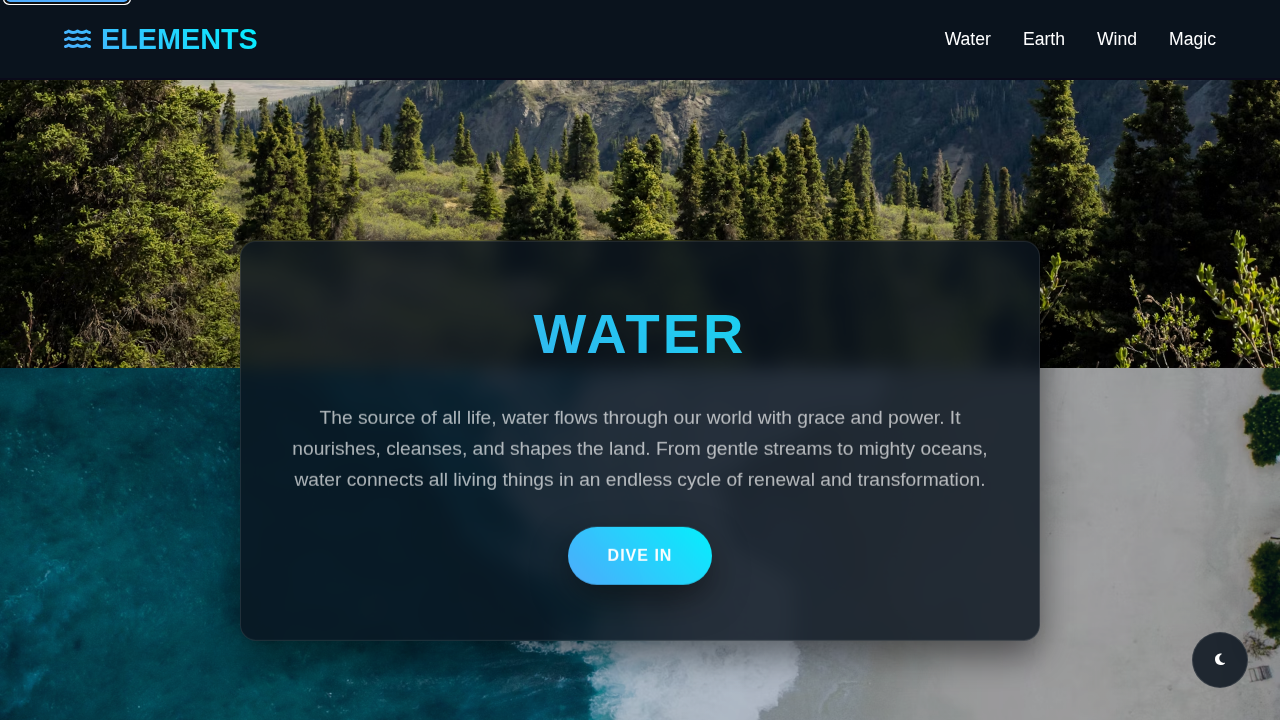
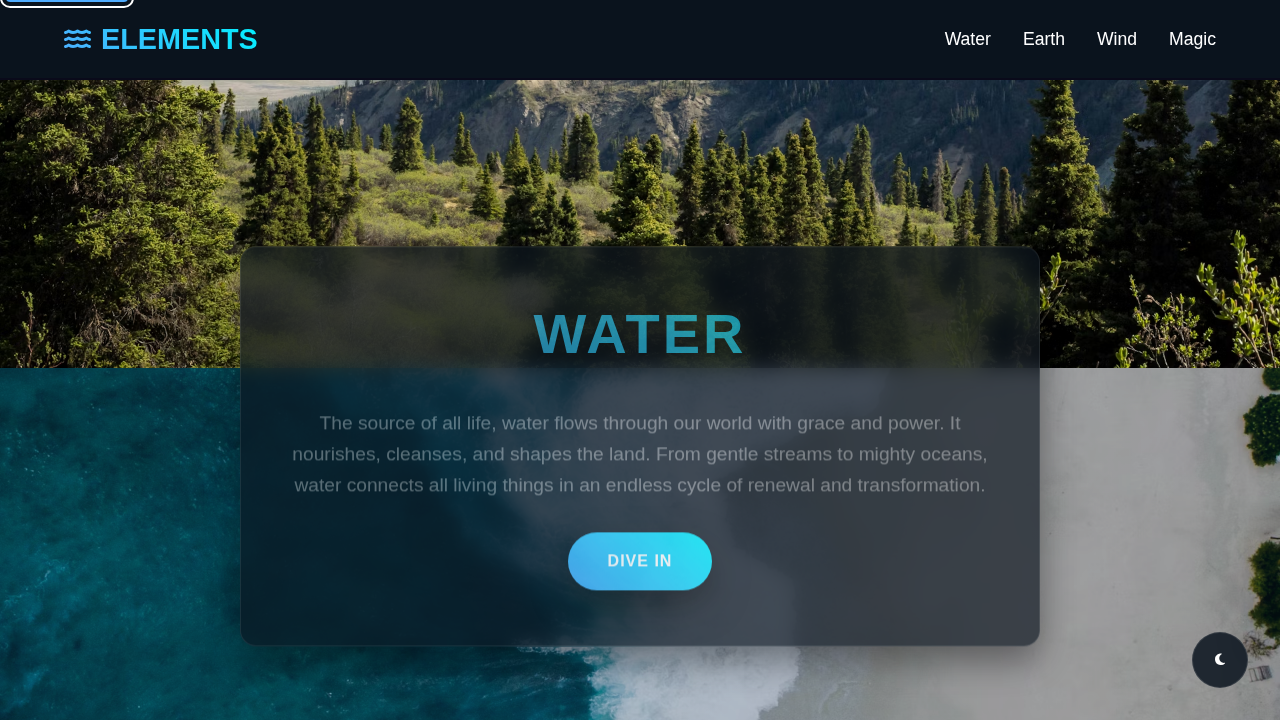
🎨 Palette: Improve keyboard focus visibility and mobile menu accessibility

diff --git a/index.html b/index.html
@@ -60,6 +60,11 @@
             top: 6px;
         }
 
+        .skip-link:focus-visible {
+            outline: 2px solid var(--text-color);
+            outline-offset: 4px;
+        }
+
         #main-content:focus {
             outline: none;
         }
@@ -98,6 +103,12 @@
             display: flex;
             align-items: center;
             gap: 10px;
+            border-radius: 4px;
+        }
+
+        .logo:focus-visible {
+            outline: 2px solid var(--primary-color);
+            outline-offset: 4px;
         }
 
         .logo i {
@@ -120,8 +131,14 @@
         }
 
         .nav-links a:hover,
-        .nav-links a:focus {
+        .nav-links a:focus-visible {
             color: var(--primary-color);
+        }
+
+        .nav-links a:focus-visible {
+            outline: 2px solid var(--primary-color);
+            outline-offset: 4px;
+            border-radius: 4px;
         }
 
         .nav-links a::after {
@@ -136,7 +153,7 @@
         }
 
         .nav-links a:hover::after,
-        .nav-links a:focus::after {
+        .nav-links a:focus-visible::after {
             width: 100%;
         }
 
@@ -154,11 +171,6 @@
         .mobile-menu-btn:focus-visible {
             outline: 2px solid var(--primary-color);
             outline-offset: 4px;
-        }
-
-        .mobile-menu-btn:focus-visible {
-            outline: 2px solid var(--primary-color);
-            outline-offset: 2px;
             border-radius: 4px;
         }
 
@@ -231,11 +243,14 @@
         }
 
         .btn:hover,
-        .btn:focus {
+        .btn:focus-visible {
             transform: translateY(-5px);
             box-shadow: 0 20px 30px rgba(0, 0, 0, 0.4);
+        }
+
+        .btn:focus-visible {
             outline: 2px solid var(--primary-color);
-            outline-offset: 2px;
+            outline-offset: 4px;
         }
 
         .btn::before {
@@ -408,11 +423,14 @@
         }
 
         .social-icons a:hover,
-        .social-icons a:focus {
+        .social-icons a:focus-visible {
             transform: translateY(-5px) scale(1.1);
             box-shadow: 0 10px 20px rgba(0, 0, 0, 0.3);
+        }
+
+        .social-icons a:focus-visible {
             outline: 2px solid var(--primary-color);
-            outline-offset: 2px;
+            outline-offset: 4px;
         }
 
         .copyright {
@@ -548,7 +566,7 @@
                 ELEMENTS
             </a>
 
-            <button class="mobile-menu-btn" id="mobile-menu-btn" aria-label="Toggle navigation menu" title="Toggle navigation menu" aria-expanded="false">
+            <button class="mobile-menu-btn" id="mobile-menu-btn" aria-controls="nav-links" aria-label="Toggle navigation menu" title="Toggle navigation menu" aria-expanded="false">
                 <i class="fas fa-bars" aria-hidden="true"></i>
             </button>
 
